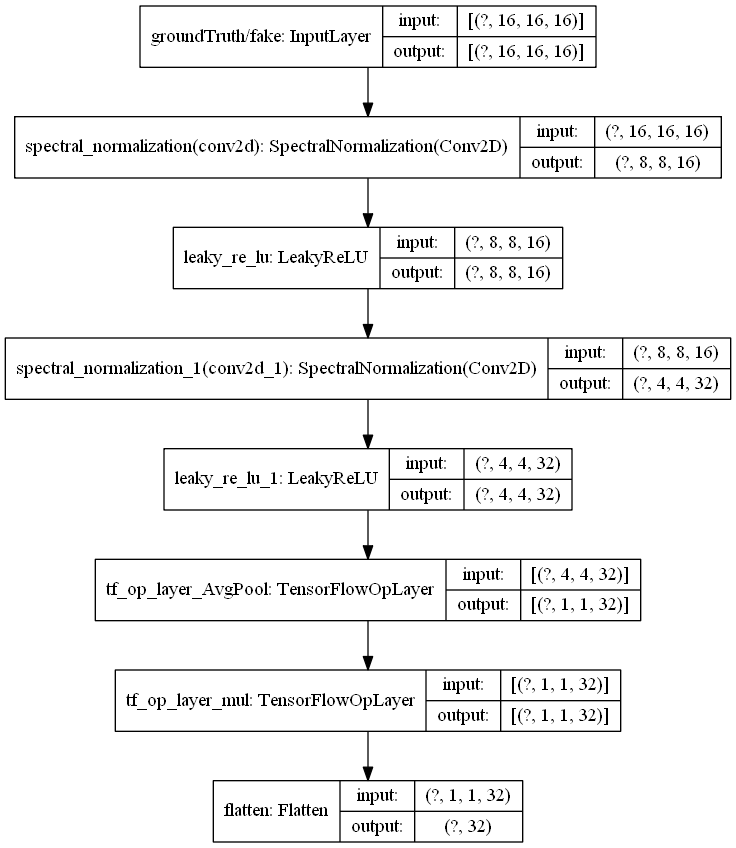
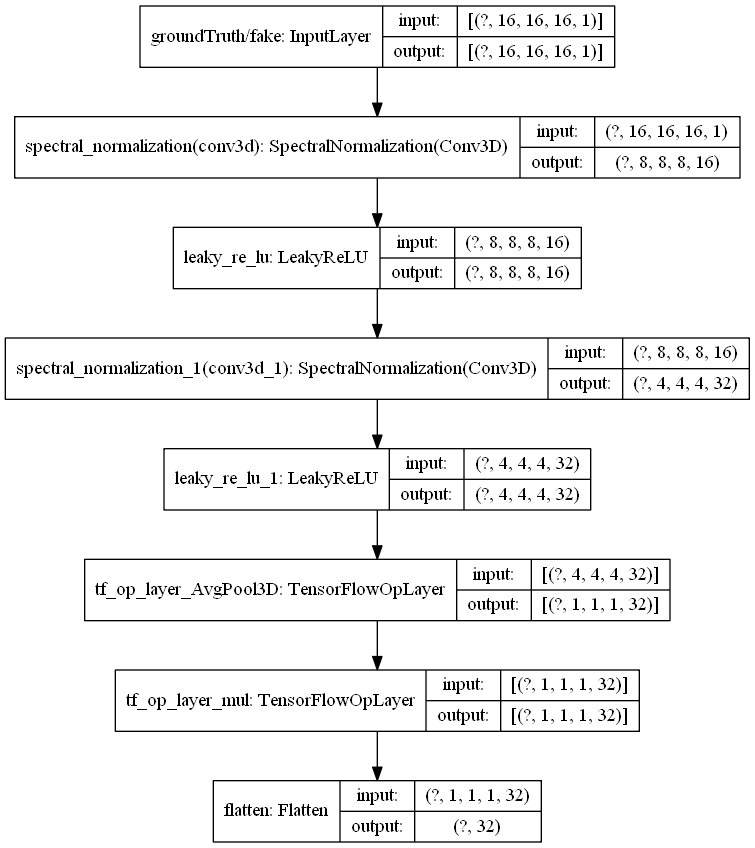
3D跑得很快, 但是無法到達更準確地值

diff --git a/GAN.py b/GAN.py
@@ -28,15 +28,11 @@ class GAN():
         self.L2_coefficient =0.5# 1/(length*width*height)
         self.validationSize = 59
         self.dis = self.discriminator()
-        self.disOptimizer = keras.optimizers.RMSprop(lr = 0.0002, 
-                                                          clipvalue = 1.0, 
-                                                          decay = 1e-8)
-        # self.disOptimizer = keras.optimizers.Adam(lr = 0.0002, beta_1 = 0.5, beta_2 = 0.9)
+        self.disOptimizer = keras.optimizers.RMSprop(lr = 0.0002, clipvalue = 1.0, decay = 1e-8)
+        #self.disOptimizer = keras.optimizers.Adam(lr = 0.0002, clipvalue = 1.0, decay = 1e-8)
         self.gen = self.generator()
-        self.genOptimizer = keras.optimizers.RMSprop(lr = 0.00005, 
-                                                    clipvalue = 1.0, 
-                                                    decay = 1e-8)
-        # self.genOptimizer = keras.optimizers.Adam(lr = 0.00005, beta_1 = 0.5, beta_2 = 0.9)                                            
+        self.genOptimizer = keras.optimizers.RMSprop(lr = 0.00005, clipvalue = 1.0, decay = 1e-8)
+        #self.genOptimizer = keras.optimizers.Adam(lr = 0.00005, clipvalue = 1.0, decay = 1e-8)                                            
         self.gradient_penality_width = 10.0
 
 
@@ -77,18 +73,18 @@ class GAN():
 
         concatenate = layers.concatenate(inputs = [x, y, z])
         
-        g =layers.Dense(4*4*2*self.filterNumber)(concatenate)
-        g = layers.Reshape((4, 4, 2*self.filterNumber))(g)
+        g =layers.Dense(4*4*4*2*self.filterNumber)(concatenate)
+        g = layers.Reshape((4, 4, 4, 2*self.filterNumber))(g)
         
         for i in range(int(log(self.width/4, 2))-1, -1, -1):
            # g = SpectralNormalization(layers.Conv2DTranspose((2**i)*self.filterNumber, kernel_size=3, strides=2, padding='same', use_bias=False))(g)
-            g = layers.Conv2DTranspose((2**i)*self.filterNumber, kernel_size=3, strides=2, padding='same', use_bias=False)(g)
+            g = layers.Conv3DTranspose((2**i)*self.filterNumber, kernel_size=3, strides=2, padding='same', use_bias=False)(g)
             
             g = layers.LeakyReLU()(g)
         
 
         #g = SpectralNormalization(layers.Conv2DTranspose(1, kernel_size=3, strides=1, padding='same', use_bias=False))(g)
-        g = layers.Conv2DTranspose(16, kernel_size=3, strides=1, padding='same', use_bias=False)(g)
+        g = layers.Conv3DTranspose(1, kernel_size=3, strides=1, padding='same', use_bias=False)(g)
         
         #g = layers.Activation(tf.nn.tanh)(g)
         
@@ -100,7 +96,7 @@ class GAN():
         # parameter1_input = keras.Input(shape = (1), name = 'parameter1')
         # parameter2_input = keras.Input(shape = (1), name = 'parameter2')
         # parameter3_input = keras.Input(shape = (1), name = 'parameter3')
-        dataInput = keras.Input(shape = (self.length,self.width, self.height), name = 'groundTruth/fake')
+        dataInput = keras.Input(shape = (self.length,self.width, self.height, 1), name = 'groundTruth/fake')
 
         # x = layers.Dense(512, name = 'parameter1_layer_1')(parameter1_input)
         # # if self.hparams[HP_BN_UNITS] : x = layers.BatchNormalization()(x)
@@ -144,18 +140,18 @@ class GAN():
         
 
         #d = SpectralNormalization(layers.Conv2D(self.filterNumber, kernel_size=3, strides=2, padding='same', use_bias=False))(dataInput)
-        d = SpectralNormalization(layers.Conv2D(self.filterNumber, kernel_size=3, strides=2, padding='same', use_bias=False))(dataInput)
+        d = SpectralNormalization(layers.Conv3D(self.filterNumber, kernel_size=3, strides=2, padding='same', use_bias=False))(dataInput)
         
         d = layers.LeakyReLU()(d)
         for i in range(1, int(log(self.width/8, 2))+1):
-            d = SpectralNormalization(layers.Conv2D((2**i)*self.filterNumber, kernel_size=3, strides=2, padding='same', use_bias=False))(d)
+            d = SpectralNormalization(layers.Conv3D((2**i)*self.filterNumber, kernel_size=3, strides=2, padding='same', use_bias=False))(d)
             #d = SpectralNormalization(layers.Conv2D((2**i)*self.filterNumber, kernel_size=3, strides=2, padding='same', use_bias=False))(d)#
             
             d = layers.LeakyReLU()(d)
         
 
 
-        d = tf.nn.avg_pool(input = d, ksize= [1, 4, 4,  1] , strides=[1, 1, 1, 1], padding='VALID')*(self.height*self.width)
+        d = tf.nn.avg_pool(input = d, ksize= [1, 4, 4, 4,  1] , strides=[1, 1, 1, 1,  1], padding='VALID')*(self.height*self.width)
         d = layers.Flatten()(d)
 
         # f1 = tf.multiply(d, xyz)
@@ -263,7 +259,7 @@ class GAN():
         data = tf.data.FixedLengthRecordDataset(file_queue, self.width*self.length*self.height*4)
         def process_input_data(ds):
             ds = tf.io.decode_raw(ds, tf.float32)
-            ds = tf.reshape(ds, [self.width, self.length, self.height])
+            ds = tf.reshape(ds, [self.width, self.length, self.height, 1])
             
             # mean = tf.reduce_mean(ds)
             # std = tf.math.reduce_std(ds) 
